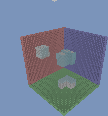
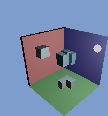
Add files via upload

Changed region(s): [[0.1667, 0.2328, 1.0, 0.9828], [0.4722, 0.0, 0.5278, 0.0259]]

diff --git a/test_raytracer.py b/test_raytracer.py
@@ -79,8 +79,9 @@ def _load_light_pos() -> np.ndarray:
 
 _CAMERA_JSON = _load_camera_json()
 LIGHT_POS    = _load_light_pos()
-AMBIENT      = 0.20
-EXPOSURE     = 0.50   # overall brightness scale applied before gamma (< 1 = darker)
+AMBIENT      = 0.12
+EXPOSURE     = 0.60   # overall brightness scale applied before gamma (< 1 = darker)
+CONTRAST     = 1.10   # mild linear contrast applied before gamma (>1 increases contrast)
 SKY_COLOR = np.array([0.4, 0.6, 1.0], dtype=np.float32)   # background blue
 
 # =============================================================================
@@ -112,6 +113,101 @@ def _normalize(v: np.ndarray) -> np.ndarray:
     """Return unit vector; returns v unchanged if near-zero length."""
     n = float(np.linalg.norm(v))
     return v / n if n > 1e-12 else v
+
+
+def _ray_origin_dir_for_pixel(px: int, py: int, cam_data: dict, img_w: int, img_h: int) -> tuple[np.ndarray, np.ndarray]:
+    """Reconstruct the primary ray for (px,py) using camera_light.json.
+
+    This matches rays_to_scene.generate_primary_ray():
+      u,v in NDC -> scale by tan(fov/2) and aspect -> dir = normalize(fwd + u*right + v*up)
+    """
+    cam = cam_data.get("camera") if cam_data else None
+    if not cam:
+        raise KeyError("camera_light.json missing 'camera' block")
+
+    cp = np.array(cam["pos"], dtype=np.float64)
+    fwd = np.array(cam["forward"], dtype=np.float64)
+    rt = np.array(cam["right"], dtype=np.float64)
+    up = np.array(cam["up"], dtype=np.float64)
+    fov = float(cam["fov_deg"])
+
+    aspect = float(img_w) / float(img_h)
+    tan_half = math.tan(math.radians(fov * 0.5))
+
+    u = ((float(px) + 0.5) / float(img_w)) * 2.0 - 1.0
+    v = 1.0 - ((float(py) + 0.5) / float(img_h)) * 2.0
+    u *= aspect * tan_half
+    v *= tan_half
+
+    direction = _normalize(fwd + u * rt + v * up)
+    return cp.astype(np.float32), direction.astype(np.float32)
+
+
+def _hit_pos_on_voxel_face(
+    voxel_x: int,
+    voxel_y: int,
+    voxel_z: int,
+    outward_normal: np.ndarray,
+    ray_origin: np.ndarray,
+    ray_dir: np.ndarray,
+) -> np.ndarray:
+    """Compute a sub-voxel hit point on the reported hit voxel face.
+
+    We intersect the camera ray with the plane of the hit face (chosen by the
+    outward normal) and clamp to that face's bounds for numerical robustness.
+    """
+    nx, ny, nz = float(outward_normal[0]), float(outward_normal[1]), float(outward_normal[2])
+
+    # Determine primary axis (FACE_NORMALS are axis-aligned).
+    ax = 0
+    if abs(ny) > abs(nx):
+        ax = 1
+    if abs(nz) > max(abs(nx), abs(ny)):
+        ax = 2
+
+    x0, x1 = float(voxel_x), float(voxel_x + 1)
+    y0, y1 = float(voxel_y), float(voxel_y + 1)
+    z0, z1 = float(voxel_z), float(voxel_z + 1)
+
+    if ax == 0:
+        plane = x0 if nx < 0.0 else x1
+        denom = float(ray_dir[0])
+        if abs(denom) < 1e-12:
+            return np.array([voxel_x + 0.5, voxel_y + 0.5, voxel_z + 0.5], dtype=np.float32)
+        t = (plane - float(ray_origin[0])) / denom
+    elif ax == 1:
+        plane = y0 if ny < 0.0 else y1
+        denom = float(ray_dir[1])
+        if abs(denom) < 1e-12:
+            return np.array([voxel_x + 0.5, voxel_y + 0.5, voxel_z + 0.5], dtype=np.float32)
+        t = (plane - float(ray_origin[1])) / denom
+    else:
+        plane = z0 if nz < 0.0 else z1
+        denom = float(ray_dir[2])
+        if abs(denom) < 1e-12:
+            return np.array([voxel_x + 0.5, voxel_y + 0.5, voxel_z + 0.5], dtype=np.float32)
+        t = (plane - float(ray_origin[2])) / denom
+
+    if not np.isfinite(t) or t <= 0.0:
+        return np.array([voxel_x + 0.5, voxel_y + 0.5, voxel_z + 0.5], dtype=np.float32)
+
+    p = ray_origin.astype(np.float64) + ray_dir.astype(np.float64) * float(t)
+
+    # Clamp to the hit face bounds (helps with tiny floating error).
+    if ax == 0:
+        p[0] = float(plane)
+        p[1] = min(max(p[1], y0), y1)
+        p[2] = min(max(p[2], z0), z1)
+    elif ax == 1:
+        p[1] = float(plane)
+        p[0] = min(max(p[0], x0), x1)
+        p[2] = min(max(p[2], z0), z1)
+    else:
+        p[2] = float(plane)
+        p[0] = min(max(p[0], x0), x1)
+        p[1] = min(max(p[1], y0), y1)
+
+    return p.astype(np.float32)
 
 
 def _project_to_pixel(world_pos: np.ndarray, cam_data: dict, img_w: int, img_h: int):
@@ -393,8 +489,17 @@ async def test_render_image(dut):
 
             # ── Lambertian diffuse shading ────────────────────────────────────
             # diffuse = max(0, dot(surface_normal, direction_to_light))
-            hit_pos   = np.array([x, y, z], dtype=np.float32)
             normal    = FACE_NORMALS[fid]
+
+            # Use a continuous hit point on the voxel face plane for point-light shading.
+            # This avoids the “1-voxel step” brightness banding you get when using
+            # integer voxel indices as the lighting point.
+            if _CAMERA_JSON:
+                ray_o, ray_d = _ray_origin_dir_for_pixel(job["px"], job["py"], _CAMERA_JSON, img_w, img_h)
+                hit_pos = _hit_pos_on_voxel_face(x, y, z, normal, ray_o, ray_d)
+            else:
+                hit_pos = np.array([x + 0.5, y + 0.5, z + 0.5], dtype=np.float32)
+
             light_dir = _normalize(LIGHT_POS - hit_pos)
             diffuse   = float(np.dot(normal, light_dir))
             diffuse   = max(0.0, diffuse)
@@ -438,7 +543,9 @@ async def test_render_image(dut):
     #    Apply sRGB gamma (power 1/2.2) so that the linear shading values map
     #    to perceptually correct brightness on a standard monitor.
     # -------------------------------------------------------------------------
-    image_gamma = np.clip(image * EXPOSURE, 0.0, 1.0) ** (1.0 / 2.2)
+    image_lin = np.clip(image * EXPOSURE, 0.0, 1.0)
+    image_lin = np.clip((image_lin - 0.5) * CONTRAST + 0.5, 0.0, 1.0)
+    image_gamma = image_lin ** (1.0 / 2.2)
     img_uint8 = (image_gamma * 255.0).round().astype(np.uint8)
     pil_image = Image.fromarray(img_uint8, mode="RGB")
 

diff --git a/rays_to_scene.py b/rays_to_scene.py
@@ -39,11 +39,13 @@ EPS_DIR = 1e-12
 EPS_ADVANCE = 1e-6
 
 # =============================================================================
-# LIGHT POSITION — edit this to move the light. Units are voxel-world coords
-# ([0,32]^3). This is written into camera_light.json and read by test_raytracer.py
-# so you only need to change it here.
+# LIGHT POSITION — edit this to move the light. Units are voxel-world coords.
+# This is written into camera_light.json and read by test_raytracer.py.
+#
+# NOTE: Keep the light reasonably close to the 32^3 world to get visible
+# gradients (a too-distant light becomes almost directional and looks flatter).
 # =============================================================================
-LIGHT_POS = np.array([50.0, 50.0, 50.0], dtype=np.float64)  # front-right-above (matches corner camera)
+LIGHT_POS = np.array([40.0, 28.0, 10.0], dtype=np.float64)  # side/overhead, not near the corner camera
 
 # =============================================================================
 # CAMERA OVERRIDE — set CAM_POS to an [X, Y, Z] array to fix the camera at
@@ -147,7 +149,8 @@ def to_fixed(x: float, wbits: int, frac: int) -> int:
     max_u = (1 << wbits) - 1
     if not np.isfinite(x) or x < 0.0:
         return max_u
-    val = int(round(x * (1 << frac)))
+    # Truncate (do NOT round) to reduce fixed-point ties between axes.
+    val = int(x * (1 << frac))
     if val < 0:
         val = 0
     if val > max_u:
